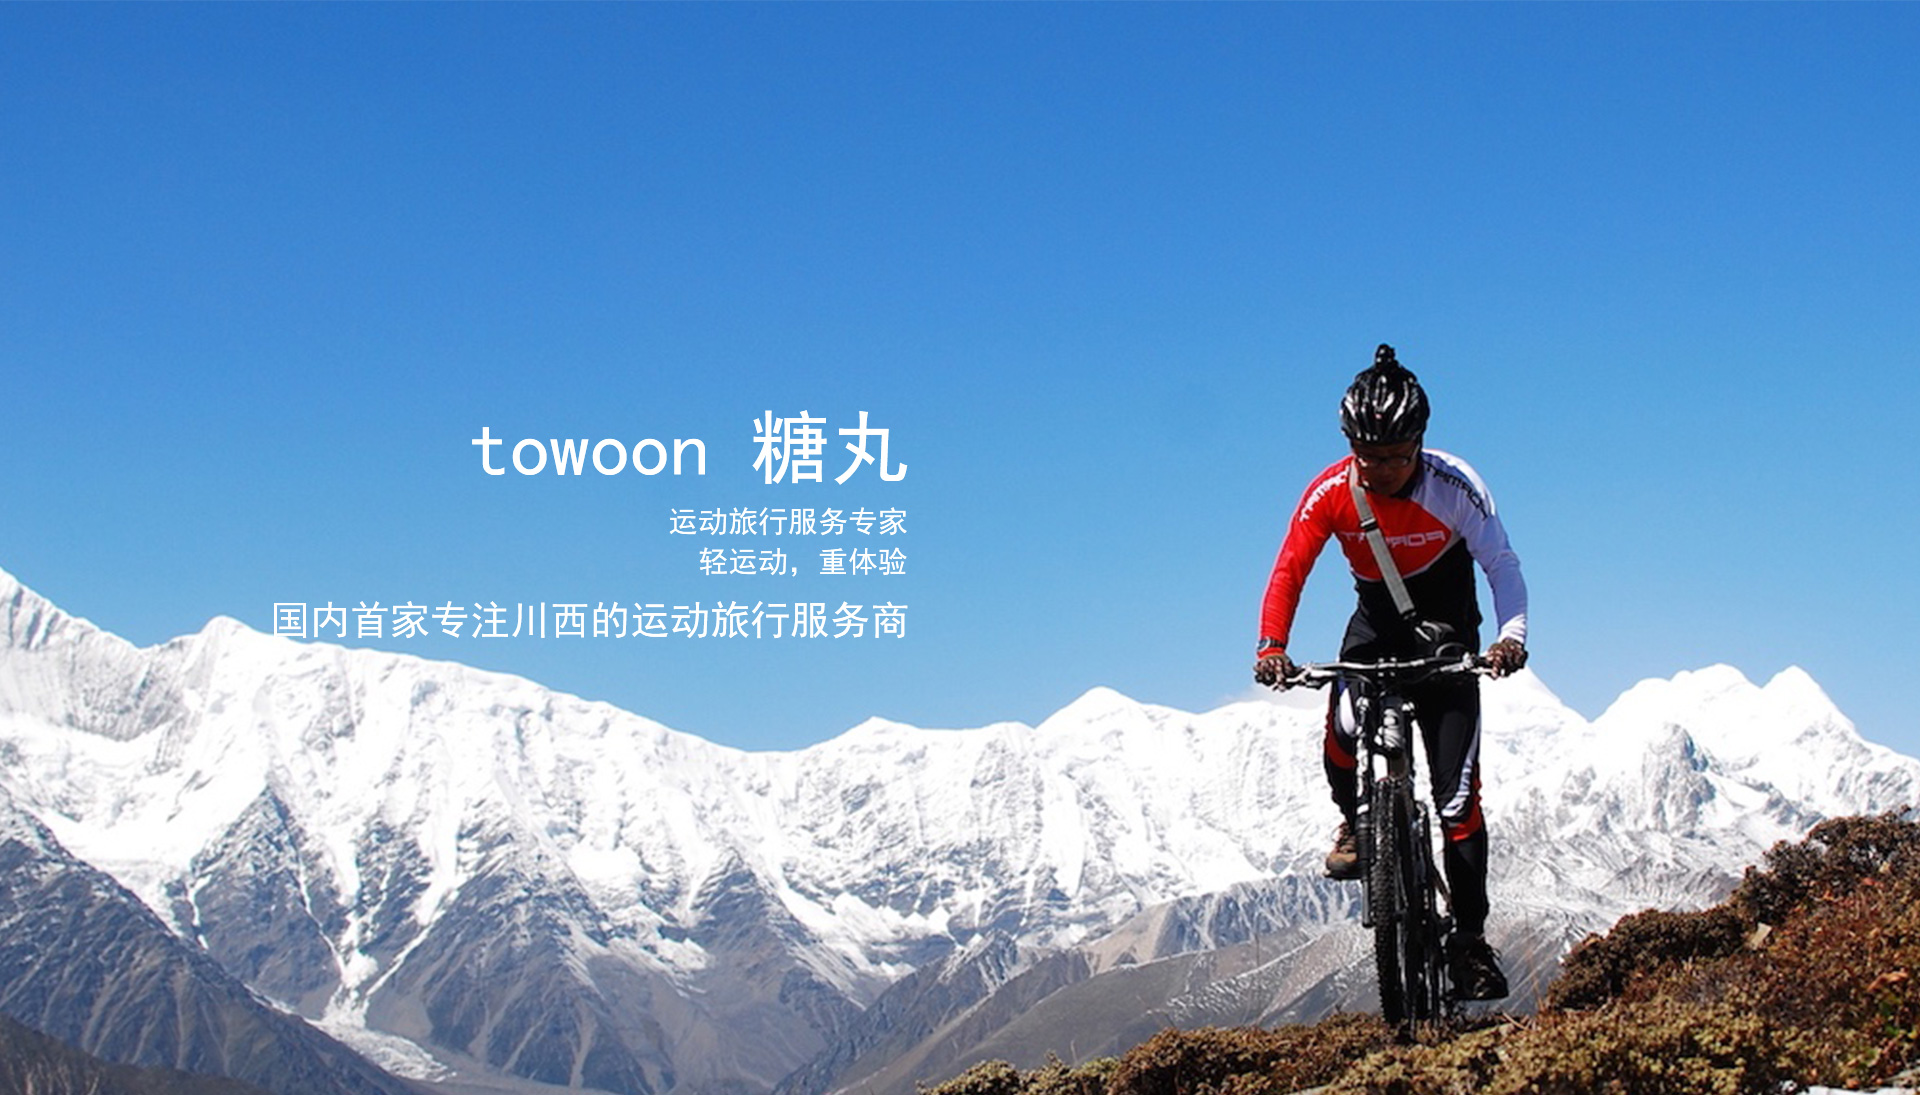
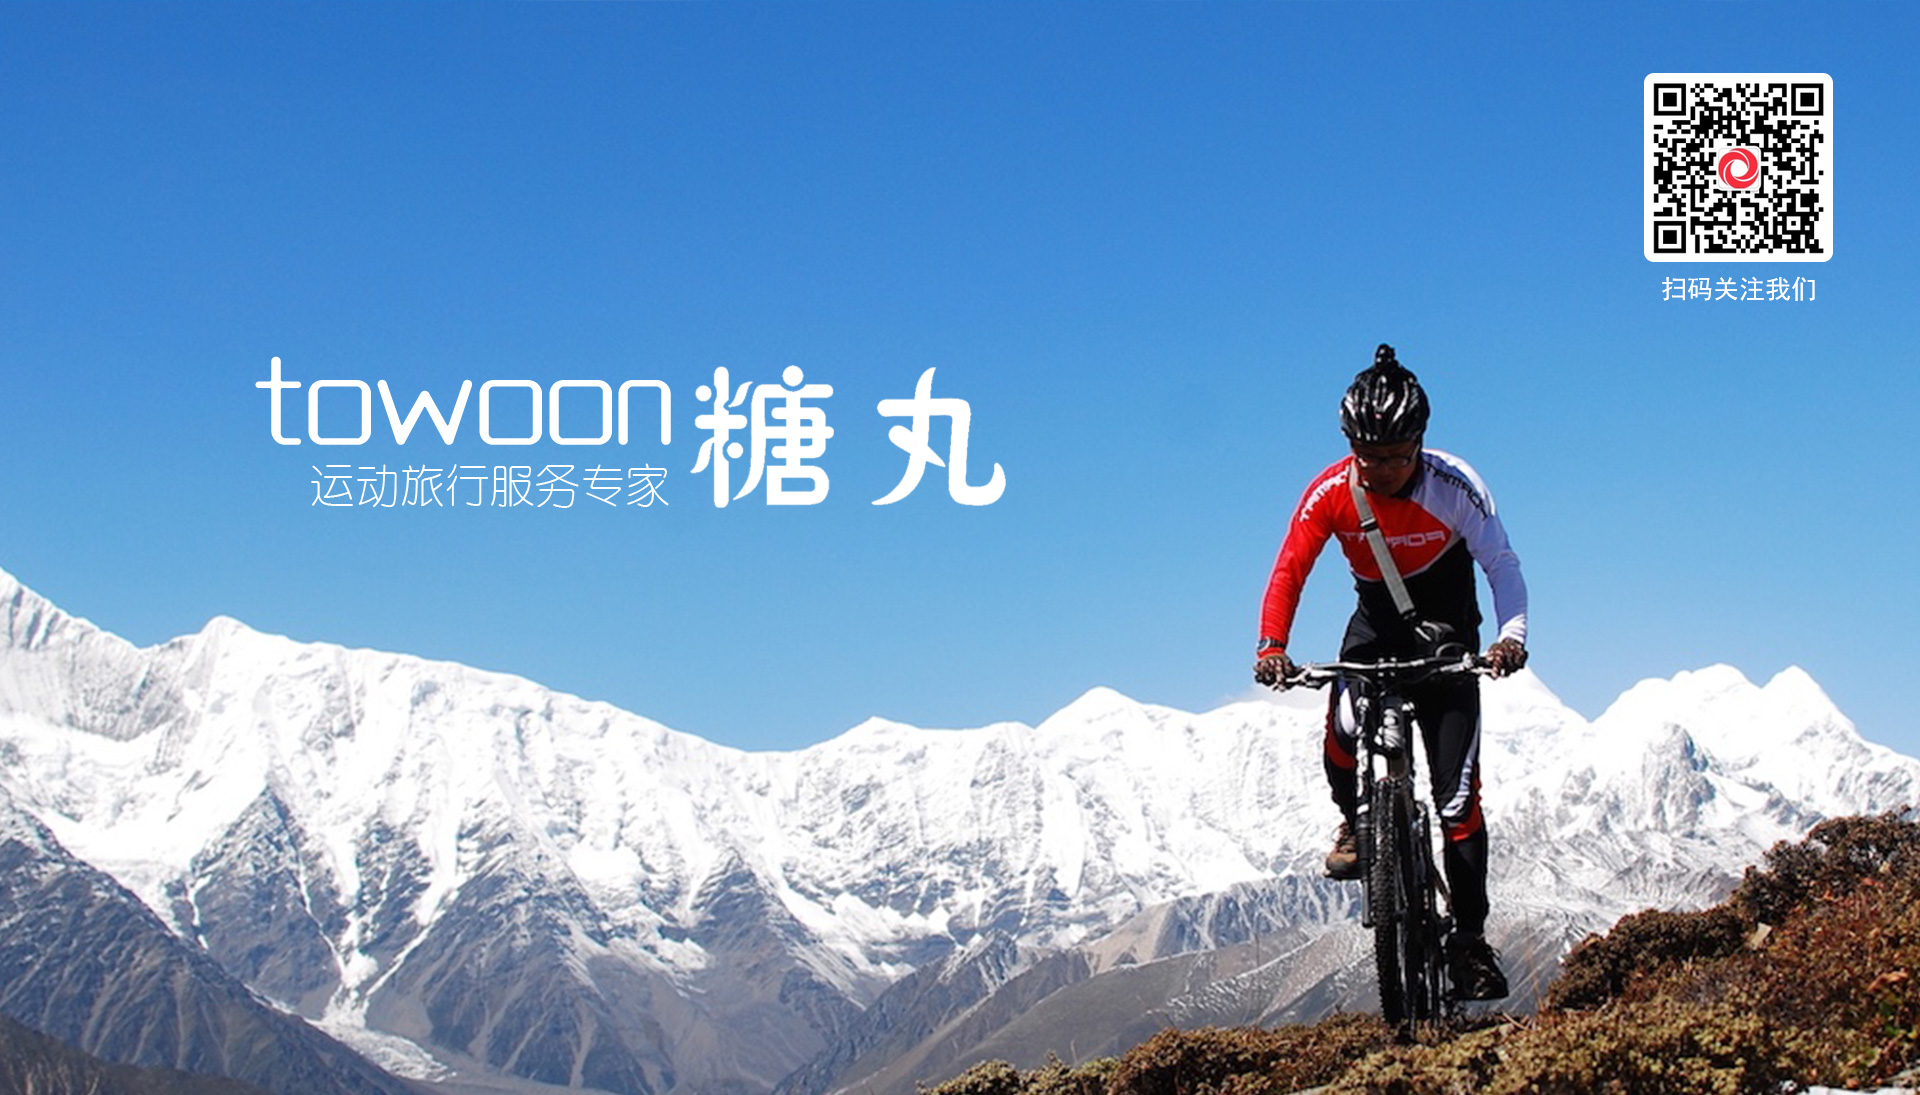
no message

Changed region(s): [[0.125, 0.3416, 0.5312, 0.59], [0.8438, 0.0621, 0.9688, 0.2795]]

diff --git a/views/admin.html b/views/admin.html
@@ -223,15 +223,7 @@
 
 <footer>
 	<div style="position: relative;" style="text-align: center">
-		<img src="/static/img/d1.jpg" alt="" class="center" width="100%"   >
-		<div class="footer_code">
-				
-			<img src="/static/img/code.jpg" style="width: 250px;"  >
-			<div style="margin-top:10px;color: white;font-size: 20px;">
-				联系我们
-			</div>	
-			
-		</div>		
+		<img src="/static/img/d1.jpg" alt="" class="center" width="100%"   >	
 	</div>
 	<section class="bg-image-clouds copyright padding-top-40 padding-bottom-20 footer">
         <article class="container">
